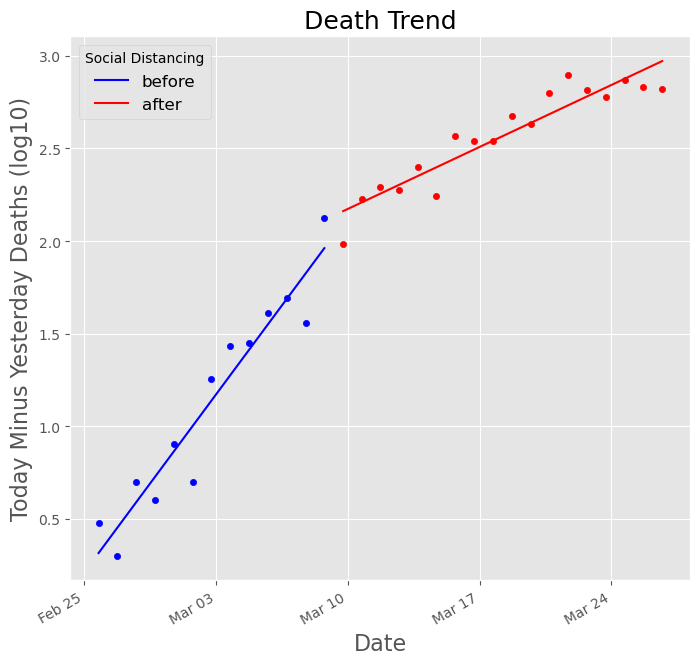
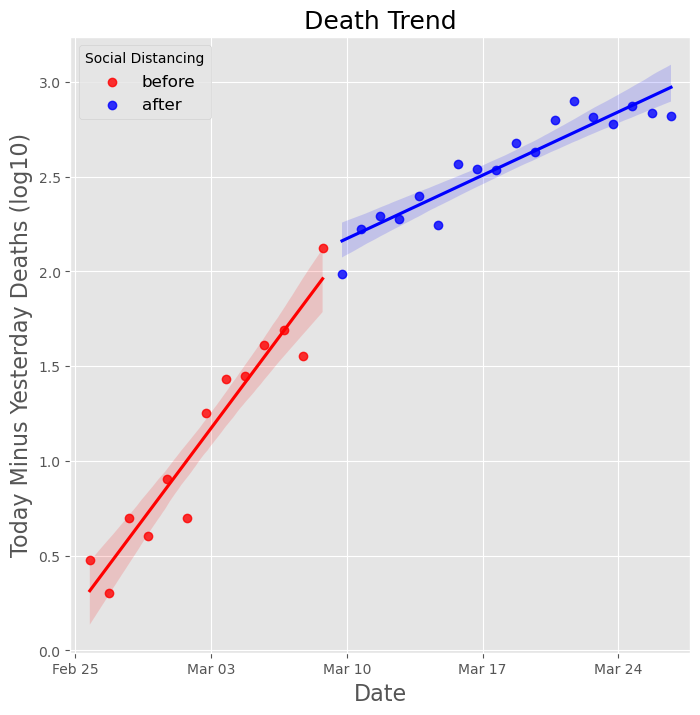
simplify fig1 with seaborn

diff --git a/DataVis.html b/DataVis.html
@@ -13140,7 +13140,7 @@ Already up-to-date.
 </div>
 <div class="cell border-box-sizing code_cell rendered">
 <div class="input">
-<div class="prompt input_prompt">In&nbsp;[36]:</div>
+<div class="prompt input_prompt">In&nbsp;[51]:</div>
 <div class="inner_cell">
     <div class="input_area">
 <div class=" highlight hl-ipython3"><pre><span></span><span class="c1">#libraries</span>
@@ -13154,6 +13154,7 @@ Already up-to-date.
 <span class="kn">import</span> <span class="nn">datetime</span>
 <span class="kn">import</span> <span class="nn">matplotlib.dates</span> <span class="k">as</span> <span class="nn">mdates</span>
 <span class="kn">from</span> <span class="nn">matplotlib.dates</span> <span class="kn">import</span> <span class="n">DateFormatter</span>
+<span class="kn">from</span> <span class="nn">matplotlib.dates</span> <span class="kn">import</span> <span class="n">date2num</span>
 <span class="n">plt</span><span class="o">.</span><span class="n">style</span><span class="o">.</span><span class="n">use</span><span class="p">(</span><span class="s1">&#39;ggplot&#39;</span><span class="p">)</span>
 </pre></div>
 
@@ -13164,7 +13165,7 @@ Already up-to-date.
 </div>
 <div class="cell border-box-sizing code_cell rendered">
 <div class="input">
-<div class="prompt input_prompt">In&nbsp;[37]:</div>
+<div class="prompt input_prompt">In&nbsp;[52]:</div>
 <div class="inner_cell">
     <div class="input_area">
 <div class=" highlight hl-ipython3"><pre><span></span><span class="c1">#remove annoying worning about pandas assignment</span>
@@ -13178,7 +13179,7 @@ Already up-to-date.
 </div>
 <div class="cell border-box-sizing code_cell rendered">
 <div class="input">
-<div class="prompt input_prompt">In&nbsp;[38]:</div>
+<div class="prompt input_prompt">In&nbsp;[53]:</div>
 <div class="inner_cell">
     <div class="input_area">
 <div class=" highlight hl-ipython3"><pre><span></span><span class="kn">from</span> <span class="nn">sklearn.linear_model</span> <span class="kn">import</span> <span class="n">LinearRegression</span><span class="p">,</span><span class="n">HuberRegressor</span><span class="p">,</span><span class="n">Ridge</span>
@@ -13199,7 +13200,7 @@ Already up-to-date.
 </div>
 <div class="cell border-box-sizing code_cell rendered">
 <div class="input">
-<div class="prompt input_prompt">In&nbsp;[39]:</div>
+<div class="prompt input_prompt">In&nbsp;[54]:</div>
 <div class="inner_cell">
     <div class="input_area">
 <div class=" highlight hl-ipython3"><pre><span></span><span class="n">df</span> <span class="o">=</span> <span class="n">pd</span><span class="o">.</span><span class="n">read_csv</span><span class="p">(</span><span class="n">os</span><span class="o">.</span><span class="n">path</span><span class="o">.</span><span class="n">join</span><span class="p">(</span><span class="s1">&#39;dati-andamento-nazionale&#39;</span><span class="p">,</span>
@@ -13247,62 +13248,35 @@ Already up-to-date.
 </div>
 <div class="cell border-box-sizing code_cell rendered">
 <div class="input">
-<div class="prompt input_prompt">In&nbsp;[40]:</div>
+<div class="prompt input_prompt">In&nbsp;[64]:</div>
 <div class="inner_cell">
     <div class="input_area">
-<div class=" highlight hl-ipython3"><pre><span></span><span class="n">yR</span><span class="o">=</span><span class="s1">&#39;deceduti_daily&#39;</span>
-<span class="n">df</span><span class="o">=</span><span class="n">df</span><span class="p">[</span><span class="o">~</span><span class="n">df</span><span class="p">[</span><span class="n">yR</span><span class="o">+</span><span class="s1">&#39;_log&#39;</span><span class="p">]</span><span class="o">.</span><span class="n">isna</span><span class="p">()]</span>
-<span class="c1">#select before and after </span>
-<span class="c1">#the introduction of social distancing mesures</span>
-<span class="n">before</span> <span class="o">=</span> <span class="n">df</span><span class="p">[</span><span class="n">df</span><span class="p">[</span><span class="s1">&#39;data&#39;</span><span class="p">]</span><span class="o">&lt;</span><span class="s1">&#39;2020-03-9&#39;</span><span class="p">]</span>
+<div class=" highlight hl-ipython3"><pre><span></span><span class="n">before</span> <span class="o">=</span> <span class="n">df</span><span class="p">[</span><span class="n">df</span><span class="p">[</span><span class="s1">&#39;data&#39;</span><span class="p">]</span><span class="o">&lt;</span><span class="s1">&#39;2020-03-9&#39;</span><span class="p">]</span>
+<span class="n">before</span><span class="p">[</span><span class="s1">&#39;ndata&#39;</span><span class="p">]</span><span class="o">=</span><span class="n">date2num</span><span class="p">(</span><span class="n">before</span><span class="p">[</span><span class="s1">&#39;data&#39;</span><span class="p">])</span>
 <span class="n">after</span> <span class="o">=</span> <span class="n">df</span><span class="p">[</span><span class="n">df</span><span class="p">[</span><span class="s1">&#39;data&#39;</span><span class="p">]</span><span class="o">&gt;</span><span class="s1">&#39;2020-03-9&#39;</span><span class="p">]</span>
+<span class="n">after</span><span class="p">[</span><span class="s1">&#39;ndata&#39;</span><span class="p">]</span><span class="o">=</span><span class="n">date2num</span><span class="p">(</span><span class="n">after</span><span class="p">[</span><span class="s1">&#39;data&#39;</span><span class="p">])</span>
 
-<span class="n">plt</span><span class="o">.</span><span class="n">style</span><span class="o">.</span><span class="n">use</span><span class="p">(</span><span class="s1">&#39;ggplot&#39;</span><span class="p">)</span>
+<span class="n">x</span><span class="o">=</span><span class="s1">&#39;ndata&#39;</span>
+<span class="n">y</span><span class="o">=</span><span class="s1">&#39;deceduti_daily_log&#39;</span>
 <span class="n">fig</span><span class="p">,</span><span class="n">ax</span><span class="o">=</span><span class="n">plt</span><span class="o">.</span><span class="n">subplots</span><span class="p">(</span><span class="n">figsize</span><span class="o">=</span><span class="p">(</span><span class="mi">8</span><span class="p">,</span><span class="mi">8</span><span class="p">))</span>
+<span class="n">sns</span><span class="o">.</span><span class="n">regplot</span><span class="p">(</span><span class="n">x</span><span class="o">=</span><span class="n">x</span><span class="p">,</span> <span class="n">y</span><span class="o">=</span><span class="n">y</span><span class="p">,</span> <span class="n">color</span><span class="o">=</span><span class="s2">&quot;r&quot;</span><span class="p">,</span> <span class="n">data</span><span class="o">=</span><span class="n">before</span><span class="p">,</span><span class="n">ax</span><span class="o">=</span><span class="n">ax</span><span class="p">,</span><span class="n">label</span><span class="o">=</span><span class="s1">&#39;before&#39;</span><span class="p">)</span>
+<span class="n">sns</span><span class="o">.</span><span class="n">regplot</span><span class="p">(</span><span class="n">x</span><span class="o">=</span><span class="n">x</span><span class="p">,</span> <span class="n">y</span><span class="o">=</span><span class="n">y</span><span class="p">,</span> <span class="n">color</span><span class="o">=</span><span class="s2">&quot;b&quot;</span><span class="p">,</span> <span class="n">data</span><span class="o">=</span><span class="n">after</span><span class="p">,</span><span class="n">ax</span><span class="o">=</span><span class="n">ax</span><span class="p">,</span><span class="n">label</span><span class="o">=</span><span class="s1">&#39;after&#39;</span><span class="p">)</span>
 
-<span class="n">before</span><span class="o">.</span><span class="n">plot</span><span class="p">(</span><span class="n">x</span><span class="o">=</span><span class="s1">&#39;data&#39;</span><span class="p">,</span>
-         <span class="n">y</span><span class="o">=</span><span class="n">yR</span><span class="o">+</span><span class="s1">&#39;_log&#39;</span><span class="p">,</span>
-         <span class="n">kind</span><span class="o">=</span><span class="s1">&#39;scatter&#39;</span><span class="p">,</span><span class="n">ax</span><span class="o">=</span><span class="n">ax</span><span class="p">,</span><span class="n">c</span><span class="o">=</span><span class="s1">&#39;b&#39;</span><span class="p">)</span>
-
-<span class="n">after</span><span class="o">.</span><span class="n">plot</span><span class="p">(</span><span class="n">x</span><span class="o">=</span><span class="s1">&#39;data&#39;</span><span class="p">,</span>
-         <span class="n">y</span><span class="o">=</span><span class="n">yR</span><span class="o">+</span><span class="s1">&#39;_log&#39;</span><span class="p">,</span>
-         <span class="n">kind</span><span class="o">=</span><span class="s1">&#39;scatter&#39;</span><span class="p">,</span><span class="n">ax</span><span class="o">=</span><span class="n">ax</span><span class="p">,</span><span class="n">c</span><span class="o">=</span><span class="s1">&#39;r&#39;</span><span class="p">)</span>
-
-<span class="n">x</span><span class="o">=</span><span class="n">before</span><span class="p">[</span><span class="s1">&#39;data&#39;</span><span class="p">]</span><span class="o">.</span><span class="n">values</span><span class="o">.</span><span class="n">reshape</span><span class="p">(</span><span class="o">-</span><span class="mi">1</span><span class="p">,</span> <span class="mi">1</span><span class="p">)</span>
-<span class="n">y</span><span class="o">=</span><span class="n">before</span><span class="p">[</span><span class="n">yR</span><span class="o">+</span><span class="s1">&#39;_log&#39;</span><span class="p">]</span><span class="o">.</span><span class="n">values</span>
-<span class="n">lr</span><span class="o">.</span><span class="n">fit</span><span class="p">(</span><span class="n">x</span><span class="p">,</span><span class="n">y</span><span class="p">)</span>
-<span class="c1">#plt.plot(x, lr.predict(x), &#39;b-&#39;)</span>
-<span class="n">y_pred</span> <span class="o">=</span> <span class="n">lr</span><span class="o">.</span><span class="n">predict</span><span class="p">(</span><span class="n">before</span><span class="o">.</span><span class="n">data</span><span class="o">.</span><span class="n">values</span><span class="o">.</span><span class="n">astype</span><span class="p">(</span><span class="nb">float</span><span class="p">)</span><span class="o">.</span><span class="n">reshape</span><span class="p">(</span><span class="o">-</span><span class="mi">1</span><span class="p">,</span> <span class="mi">1</span><span class="p">))</span>
-<span class="n">before</span><span class="o">.</span><span class="n">loc</span><span class="p">[:,</span><span class="s1">&#39;y_pred&#39;</span><span class="p">]</span><span class="o">=</span><span class="n">y_pred</span>
-
-<span class="n">before</span><span class="o">.</span><span class="n">plot</span><span class="p">(</span><span class="n">x</span><span class="o">=</span><span class="s1">&#39;data&#39;</span><span class="p">,</span>
-         <span class="n">y</span><span class="o">=</span><span class="s1">&#39;y_pred&#39;</span><span class="p">,</span>
-         <span class="n">ax</span><span class="o">=</span><span class="n">ax</span><span class="p">,</span><span class="n">c</span><span class="o">=</span><span class="s1">&#39;b&#39;</span><span class="p">,</span><span class="n">label</span><span class="o">=</span><span class="s1">&#39;before&#39;</span><span class="p">)</span>
-
-<span class="n">x</span><span class="o">=</span><span class="n">after</span><span class="p">[</span><span class="s1">&#39;data&#39;</span><span class="p">]</span><span class="o">.</span><span class="n">values</span><span class="o">.</span><span class="n">reshape</span><span class="p">(</span><span class="o">-</span><span class="mi">1</span><span class="p">,</span> <span class="mi">1</span><span class="p">)</span>
-<span class="n">y</span><span class="o">=</span><span class="n">after</span><span class="p">[</span><span class="n">yR</span><span class="o">+</span><span class="s1">&#39;_log&#39;</span><span class="p">]</span><span class="o">.</span><span class="n">values</span>
-<span class="n">lr</span><span class="o">.</span><span class="n">fit</span><span class="p">(</span><span class="n">x</span><span class="p">,</span><span class="n">y</span> <span class="p">)</span>
-<span class="c1">#plt.plot(x, lr.predict(x), &#39;b-&#39;)</span>
-<span class="n">y_pred</span> <span class="o">=</span> <span class="n">lr</span><span class="o">.</span><span class="n">predict</span><span class="p">(</span><span class="n">after</span><span class="o">.</span><span class="n">data</span><span class="o">.</span><span class="n">values</span><span class="o">.</span><span class="n">astype</span><span class="p">(</span><span class="nb">float</span><span class="p">)</span><span class="o">.</span><span class="n">reshape</span><span class="p">(</span><span class="o">-</span><span class="mi">1</span><span class="p">,</span> <span class="mi">1</span><span class="p">))</span>
-<span class="n">after</span><span class="o">.</span><span class="n">loc</span><span class="p">[:,</span><span class="s1">&#39;y_pred&#39;</span><span class="p">]</span><span class="o">=</span><span class="n">y_pred</span>
-
-<span class="n">after</span><span class="o">.</span><span class="n">plot</span><span class="p">(</span><span class="n">x</span><span class="o">=</span><span class="s1">&#39;data&#39;</span><span class="p">,</span>
-         <span class="n">y</span><span class="o">=</span><span class="s1">&#39;y_pred&#39;</span><span class="p">,</span>
-         <span class="n">ax</span><span class="o">=</span><span class="n">ax</span><span class="p">,</span><span class="n">c</span><span class="o">=</span><span class="s1">&#39;r&#39;</span><span class="p">,</span><span class="n">label</span><span class="o">=</span><span class="s1">&#39;after&#39;</span><span class="p">)</span>
-<span class="n">plt</span><span class="o">.</span><span class="n">legend</span><span class="p">(</span><span class="n">title</span><span class="o">=</span><span class="s1">&#39;Social Distancing&#39;</span><span class="p">,</span><span class="n">fontsize</span><span class="o">=</span><span class="mi">12</span><span class="p">)</span>
-
+<span class="n">xmin</span><span class="p">,</span> <span class="n">xmax</span> <span class="o">=</span> <span class="n">ax</span><span class="o">.</span><span class="n">get_xlim</span><span class="p">()</span>
+<span class="n">ax</span><span class="o">.</span><span class="n">set_xlim</span><span class="p">(</span><span class="n">xmin</span><span class="o">-</span><span class="mi">1</span><span class="p">,</span><span class="n">xmax</span><span class="o">+</span><span class="mi">1</span><span class="p">)</span>
 <span class="c1">#set ticks every week</span>
 <span class="n">ax</span><span class="o">.</span><span class="n">xaxis</span><span class="o">.</span><span class="n">set_major_locator</span><span class="p">(</span><span class="n">mdates</span><span class="o">.</span><span class="n">WeekdayLocator</span><span class="p">())</span>
 <span class="c1">#set major ticks format</span>
 <span class="n">ax</span><span class="o">.</span><span class="n">xaxis</span><span class="o">.</span><span class="n">set_major_formatter</span><span class="p">(</span><span class="n">mdates</span><span class="o">.</span><span class="n">DateFormatter</span><span class="p">(</span><span class="s1">&#39;%b </span><span class="si">%d</span><span class="s1">&#39;</span><span class="p">))</span>
 
 
-
 <span class="c1">#plt.xticks(rotation=70,ha=&#39;right&#39;)</span>
 <span class="n">plt</span><span class="o">.</span><span class="n">xlabel</span><span class="p">(</span><span class="s1">&#39;Date&#39;</span><span class="p">,</span> <span class="n">fontsize</span><span class="o">=</span><span class="s1">&#39;16&#39;</span><span class="p">)</span>
 <span class="n">plt</span><span class="o">.</span><span class="n">ylabel</span><span class="p">(</span><span class="s1">&#39;Today Minus Yesterday Deaths (log10)&#39;</span><span class="p">,</span><span class="n">fontsize</span><span class="o">=</span><span class="s1">&#39;16&#39;</span><span class="p">)</span>
 <span class="n">plt</span><span class="o">.</span><span class="n">title</span><span class="p">(</span><span class="s1">&#39;Death Trend&#39;</span><span class="p">,</span><span class="n">fontsize</span><span class="o">=</span><span class="s1">&#39;18&#39;</span><span class="p">)</span>
+<span class="n">plt</span><span class="o">.</span><span class="n">legend</span><span class="p">(</span><span class="n">title</span><span class="o">=</span><span class="s1">&#39;Social Distancing&#39;</span><span class="p">,</span><span class="n">fontsize</span><span class="o">=</span><span class="mi">12</span><span class="p">)</span>
 <span class="n">plt</span><span class="o">.</span><span class="n">savefig</span><span class="p">(</span><span class="s1">&#39;Fig1.png&#39;</span><span class="p">)</span>
+<span class="n">plt</span><span class="o">.</span><span class="n">show</span><span class="p">()</span>
 </pre></div>
 
     </div>
@@ -13494,7 +13468,7 @@ Already up-to-date.
 </div>
 <div class="cell border-box-sizing code_cell rendered">
 <div class="input">
-<div class="prompt input_prompt">In&nbsp;[33]:</div>
+<div class="prompt input_prompt">In&nbsp;[43]:</div>
 <div class="inner_cell">
     <div class="input_area">
 <div class=" highlight hl-ipython3"><pre><span></span><span class="o">!</span>jupyter nbconvert --to html_toc DataVis.ipynb
@@ -13519,7 +13493,7 @@ Already up-to-date.
 [NbConvertApp] Making directory DataVis_files
 [NbConvertApp] Making directory DataVis_files
 [NbConvertApp] Making directory DataVis_files
-[NbConvertApp] Writing 314679 bytes to DataVis.html
+[NbConvertApp] Writing 314355 bytes to DataVis.html
 </pre>
 </div>
 </div>
@@ -13530,12 +13504,13 @@ Already up-to-date.
 </div>
 <div class="cell border-box-sizing code_cell rendered">
 <div class="input">
-<div class="prompt input_prompt">In&nbsp;[34]:</div>
+<div class="prompt input_prompt">In&nbsp;[45]:</div>
 <div class="inner_cell">
     <div class="input_area">
 <div class=" highlight hl-ipython3"><pre><span></span><span class="o">!</span>git add DataVis*
+<span class="o">!</span>git add coronavirus-DNA-720*
 <span class="o">!</span>git add -u
-<span class="o">!</span>git commit -m <span class="s1">&#39;add comments to dataset&#39;</span>
+<span class="o">!</span>git commit -m <span class="s1">&#39;add coronavirus image&#39;</span>
 <span class="o">!</span>git push -u origin master
 </pre></div>
 
@@ -13553,29 +13528,29 @@ Already up-to-date.
 
 
 <div class="output_subarea output_stream output_stdout output_text">
-<pre>[master 9fd6195] add comments to dataset
- Committer: Michele Tinti &lt;mtinti@ls29490.local&gt;
+<pre>[master 3dd38b6] add coronavirus image
+ Committer: Michele Tinti &lt;mtinti@ls29490.home&gt;
 Your name and email address were configured automatically based
 on your username and hostname. Please check that they are accurate.
-You can suppress this message by setting them explicitly. Run the
-following command and follow the instructions in your editor to edit
-your configuration file:
+You can suppress this message by setting them explicitly:
 
-    git config --global --edit
+    git config --global user.name &#34;Your Name&#34;
+    git config --global user.email you@example.com
 
 After doing this, you may fix the identity used for this commit with:
 
     git commit --amend --reset-author
 
- 2 files changed, 78 insertions(+), 52 deletions(-)
-Counting objects: 4, done.
+ 1 file changed, 0 insertions(+), 0 deletions(-)
+ create mode 100644 coronavirus-DNA-720.png
+Counting objects: 3, done.
 Delta compression using up to 8 threads.
-Compressing objects: 100% (4/4), done.
-Writing objects: 100% (4/4), 1.82 KiB | 0 bytes/s, done.
-Total 4 (delta 3), reused 0 (delta 0)
-remote: Resolving deltas: 100% (3/3), completed with 3 local objects.
+Compressing objects: 100% (3/3), done.
+Writing objects: 100% (3/3), 197.55 KiB | 0 bytes/s, done.
+Total 3 (delta 1), reused 0 (delta 0)
+remote: Resolving deltas: 100% (1/1), completed with 1 local object.
 To https://github.com/mtinti/COVID-19.git
-   dfa95e8..9fd6195  master -&gt; master
+   cb467a0..3dd38b6  master -&gt; master
 Branch master set up to track remote branch master from origin.
 </pre>
 </div>
